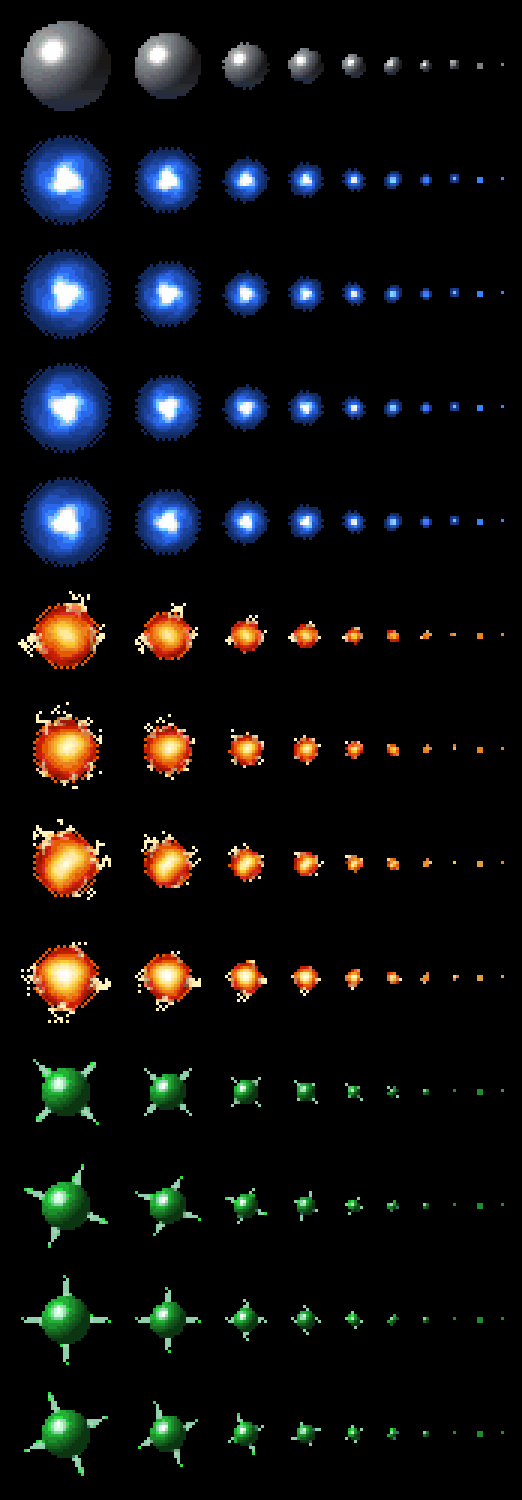
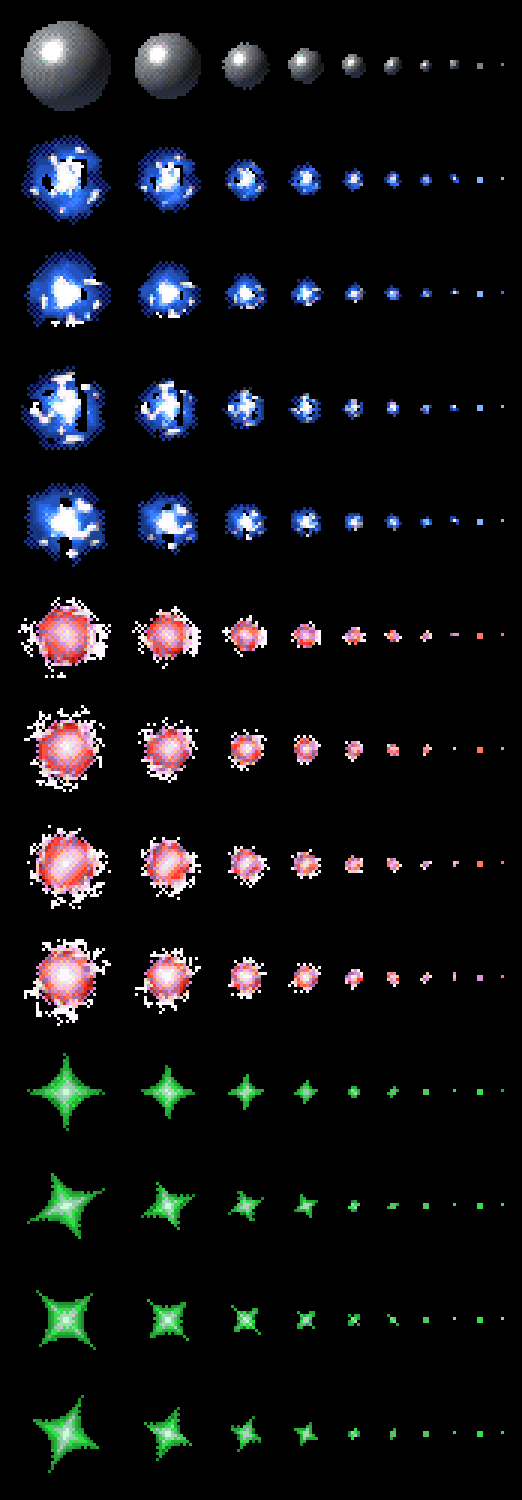
make ships move when they have velocity. Investigate afterburner slide

diff --git a/retrovega/src/world.h b/retrovega/src/world.h
@@ -18,13 +18,24 @@ enum { ET_NONE = 0, ET_NAV = 2, ET_NAVICON = 3, ET_DUST = 4, ET_EXPLOSION = 5, E
 enum { CTL_AI, CTL_PLAYER, CTL_PUPPET, CTL_SCRIPT, CTL_FROZEN };
 /* commAnimInfo: the side */
 enum { SIDE_TERRAN, SIDE_AERA, SIDE_RLAAN };
-
-#define KM INT32_C(256)                 /* positions a km */
-#define ONE 256                         /* 1.0 in an orientation vector */
+#define RV_PI 3.141592653589793238462643383279
+typedef char rv_sar_check[(INT32_C(-1) >> 1) == -1 ? 1 : -1];   /* >> on a negative number shifts in its sign
+                                           (implementation-defined in C; wcc, gcc and clang do): TO_KM, FIX_MUL and
+                                           vec_turn rely on it.  A compiler that shifts in zeros fails here */
+#define KM_SHIFT 8                      /* KM as a shift */
+#define KM (INT32_C(1) << KM_SHIFT)     /* positions a km */
+#define TO_KM(p) ((p) >> KM_SHIFT)      /* positions as km: a shift, where / KM is a runtime divide on DOS.  Rounds
+                                           down (-0.5 km to -1) where / rounds toward zero */
+#define ONE_SHIFT 8                     /* ONE as a shift */
+#define ONE (1 << ONE_SHIFT)            /* 1.0 in an orientation vector */
+#define FIX_MUL(a, d) (((int32_t)(a) * (d)) >> ONE_SHIFT) /* a times d, one of them in ONEs (an orientation
+                                           vector's component): a shift, where / ONE is a runtime divide on DOS.
+                                           Rounds down (-0.5 to -1) where / rounds toward zero */
 #define TURN 1024                       /* a whole turn in lf_sin / lf_cos / lf_atan2's angles */
 #define KPS_HZ 20                       /* the step rate a kps is converted at: a kps is KM / KPS_HZ = 12.8 positions a
                                            step (spec 6.1).  The flight steps LOGIC_HZ times a second (logic.h): while
                                            the two differ everything moves LOGIC_HZ / KPS_HZ times its nominal speed */
+#define NUM_SHIP_SLOTS (RV_MAX_SHIP_SLOT + 1) /* The number of active ship slots, including 0 and RV_MAX_SHIP_SLOT. */
 #define KPS_STEP(kps) ((int32_t)(kps) * KM / KPS_HZ)   /* a speed in kps as positions a step */
 
 /* a slot's shield words (k: 0 front, 1 rear) and armour words (k: 0 front, 1 rear, 2 left, 3 right) */
@@ -47,7 +58,12 @@ void vec_cross(RvVec3 *out, const RvVec3 *a, const RvVec3 *b);   /* (a x b) / 25
 void vec_turn(RvVec3 *a, RvVec3 *b, int16_t t);   /* a and b turned by t (TURN a whole turn) in their plane:
                                            a' = a cos + b sin, b' = b cos - a sin.  (front, right): a yaw to the
                                            right; (front, up): a pitch up; (right, up): a roll to the left */
-
+inline RvVec3 vec3(int32_t x, int32_t y, int32_t z)
+{
+    RvVec3 v;
+    v.x = x; v.y = y; v.z = z;
+    return v;
+}
 /* do_damage's `where`: a near pointer to an RvVec3 (on DOS its offset in DGROUP; the host harness maps one).  Pass
  * RV_WHERE(&v) for a vector of yours (a local: the stack is in DGROUP), and read the one do_damage_impl was given
  * through RV_WHERE_VEC(where) (only read it: on the host it can be a copy) */

diff --git a/retrovega/src/logic.c b/retrovega/src/logic.c
@@ -87,11 +87,58 @@ static void step_fire(void)
 {
 }
 
+
+int32_t vec_len(const RvVec3 *a) {
+    return lf_sqrt((uint32_t)(a->x * a->x + a->y * a->y + a->z * a->z));
+}
+
+static int32_t reduce_slide(int16_t ship_index)
+{
+    int32_t target_speed = speedLo[ship_index];
+    const RvVec3 *front = &gOrientationFrontVector[ship_index];
+    int32_t step = KPS_STEP(target_speed);
+    RvVec3 target = vec3(
+        FIX_MUL(front->x, step),
+        FIX_MUL(front->y, step),
+        FIX_MUL(front->z, step));
+    RvVec3 *velocity = &gVelocityVector[ship_index];
+    RvVec3 delta = vec3(
+        target.x - velocity->x,
+        target.y - velocity->y,
+        target.z - velocity->z);
+    int32_t delta_len = vec_len(&delta);
+    int32_t a = slot_type(ship_index)->yaw_dps * KPS_STEP(slot_type(ship_index)->cruise_kps) / (int32_t)((float)(KPS_HZ)* 180.0 / RV_PI);
+    if (delta_len <= a) {
+        *velocity = target;
+    } else {
+        velocity->x += delta.x * a / delta_len;
+        velocity->y += delta.y * a / delta_len;
+        velocity->z += delta.z * a / delta_len;
+    }
+    return target_speed;
+}
+
 /* 4. every ship flies its step: its turn applied to its orientation (vec_turn, then ship_orthonormalise), its speed
  * toward setSpeed, gVelocityVector (positions a step: KPS_STEP), the velocity added to gPositionVector.  A puppet
  * only coasts (position += velocity) */
 static void step_motion(void)
 {
+    int16_t ship_index;
+    for (ship_index = 0; ship_index < NUM_SHIP_SLOTS; ship_index +=1){
+        if (!slot_is_ship(ship_index) || rvController[ship_index] == CTL_FROZEN) {
+            continue;
+        }
+        if (rvController[ship_index] != CTL_PUPPET) {
+            reduce_slide(ship_index);
+        }
+        {
+            const RvVec3 *velocity = &gVelocityVector[ship_index];
+            RvVec3 *position = &gPositionVector[ship_index];
+            position->x += velocity->x;
+            position->y += velocity->y;
+            position->z += velocity->z;
+        }
+    }
 }
 
 /* 5. the shots fly (shots_move) and hit (shot_hit: the ship and the place; do_damage through its thunk with

diff --git a/retrovega/README.md b/retrovega/README.md
@@ -28,6 +28,7 @@ Confederation against the Aera, with the Rlaan meddling.
   - what the engine still lacks;
   - the sized types (`src/rvtypes.h`) and the host harness, rvsim (`host/`): the logic built for 32- or 64-bit Linux, under gdb, rr, valgrind and the sanitizers, with the multiplayer rules checked, and for a browser at https://fireflyk64.github.io/rv/sim/.
 - The native build (`host/game.sh`, [docs/engine.md](docs/engine.md) "The native build"): the whole game compiled for a 32-bit host or the browser, no emulator, DOS's services answered by `host/hle.c` and the assembly replaced by its tested C twins: https://fireflyk64.github.io/rv/ is this build.
+- Building the native game on a 64-bit Linux host (Debian/Ubuntu): `./build.sh` first (the DOS build's data), then `host/game.sh`. It is 32-bit, so it needs `sudo apt install gcc-multilib g++-multilib libsdl2-2.0-0:i386` (after `sudo dpkg --add-architecture i386 && sudo apt update`, if i386 is not enabled). Installing `libsdl2-dev:i386` itself can make apt remove a great many packages (gdm3, gnome-shell, python3-*) because its i386 dev dependencies conflict with the amd64 ones; if apt proposes that, don't. `DEPS=1 host/game.sh` downloads that one .deb with `apt-get download` and unpacks it into `~/.local/sdl2-i386` (`SDL32_HOME` changes it) without installing it, and the build uses it from there; with the variable unset, a missing 32-bit SDL2 is reported and the build stops. `host/build.sh` (rvsim) takes the same `DEPS=1`, or `SDL=0` for the headless one; `SDL32_PC=/dir/with/sdl2.pc` points either at an SDL2 of your own. The mechanism is `host/sdl32.sh`.
 - [desktop/](desktop/README.md): the game for a Linux desktop, built to be audited. It has a plain Makefile with no generated code or downloads. The game (`rv-core`) runs in a seccomp filter and a bubblewrap sandbox with only its own directory, apart from its window (`rv`). `desktop/audit.sh` checks the build's programs and writes, and the game's system calls and writes, against a baseline recorded from the reviewed version, and it can watch a game as it is played.
 - [docs/places.md](docs/places.md): the rooms built for the game by `tools/places.py` (data/places.json):
   - **Bar and lounge:** pilots a mission seats at the tables, turning to the player when pointed at, and Tally polishing.

diff --git a/retrovega/docs/logic.md b/retrovega/docs/logic.md
@@ -528,7 +528,7 @@ The scan for this guide, most needed first:
 3. Install Open Watcom 2:
    - download `ow-snapshot.tar.xz` from the "Current-build" release of https://github.com/open-watcom/open-watcom-v2/releases (this one is the 2026-10-01 snapshot);
    - `mkdir -p ~/opt/watcom && tar -xJf ow-snapshot.tar.xz -C ~/opt/watcom`. `build.sh` uses `~/opt/watcom/binl64`; set `WATCOM=` for another place.
-4. Make the art tools' venv: `python3 -m venv ~/.venvs/retrovega-art && ~/.venvs/retrovega-art/bin/pip install numpy pillow scipy moderngl`.
+4. The art tools' venv (`~/.venvs/retrovega-art`) is made by `build.sh` when it is missing, with [uv](https://docs.astral.sh/uv/) (install it first) from `tools/art-requirements.txt`, taking only package releases at least 30 days old (`UV_EXCLUDE_NEWER` changes that).
 5. Build: `cd retrovega && ./build.sh`.
    - The first build takes several minutes: it renders the balls, the rocks and the sky, makes the comm faces and the panels, packs `RV.DAT` and pre-renders the ships' sets.
    - Later builds redo only what changed, except `RV.DAT` and the code: `CODE=1` skips `RV.DAT` while only code has changed.

diff --git a/retrovega/docs/art.md b/retrovega/docs/art.md
@@ -39,11 +39,11 @@ in four liveries.
 
 It is a minimal headless OpenGL renderer: moderngl on Mesa's EGL. llvmpipe
 is enough; no GPU or display is needed. System Python refuses pip
-installs, so it lives in a virtual environment that reuses the system's
-numpy, scipy and Pillow:
+installs, so it lives in a virtual environment (`build.sh` makes it with uv, taking
+only releases at least 30 days old):
 
-    python3 -m venv --system-site-packages ~/.venvs/retrovega-art
-    ~/.venvs/retrovega-art/bin/pip install moderngl
+    uv venv --python python3 ~/.venvs/retrovega-art
+    uv pip install --python ~/.venvs/retrovega-art/bin/python --exclude-newer "30 days" -r tools/art-requirements.txt
 
 The assets are a copy of Vega Strike's Assets-Production at
 `~/dev/vegastrike-assets` (`--assets` to change it).
